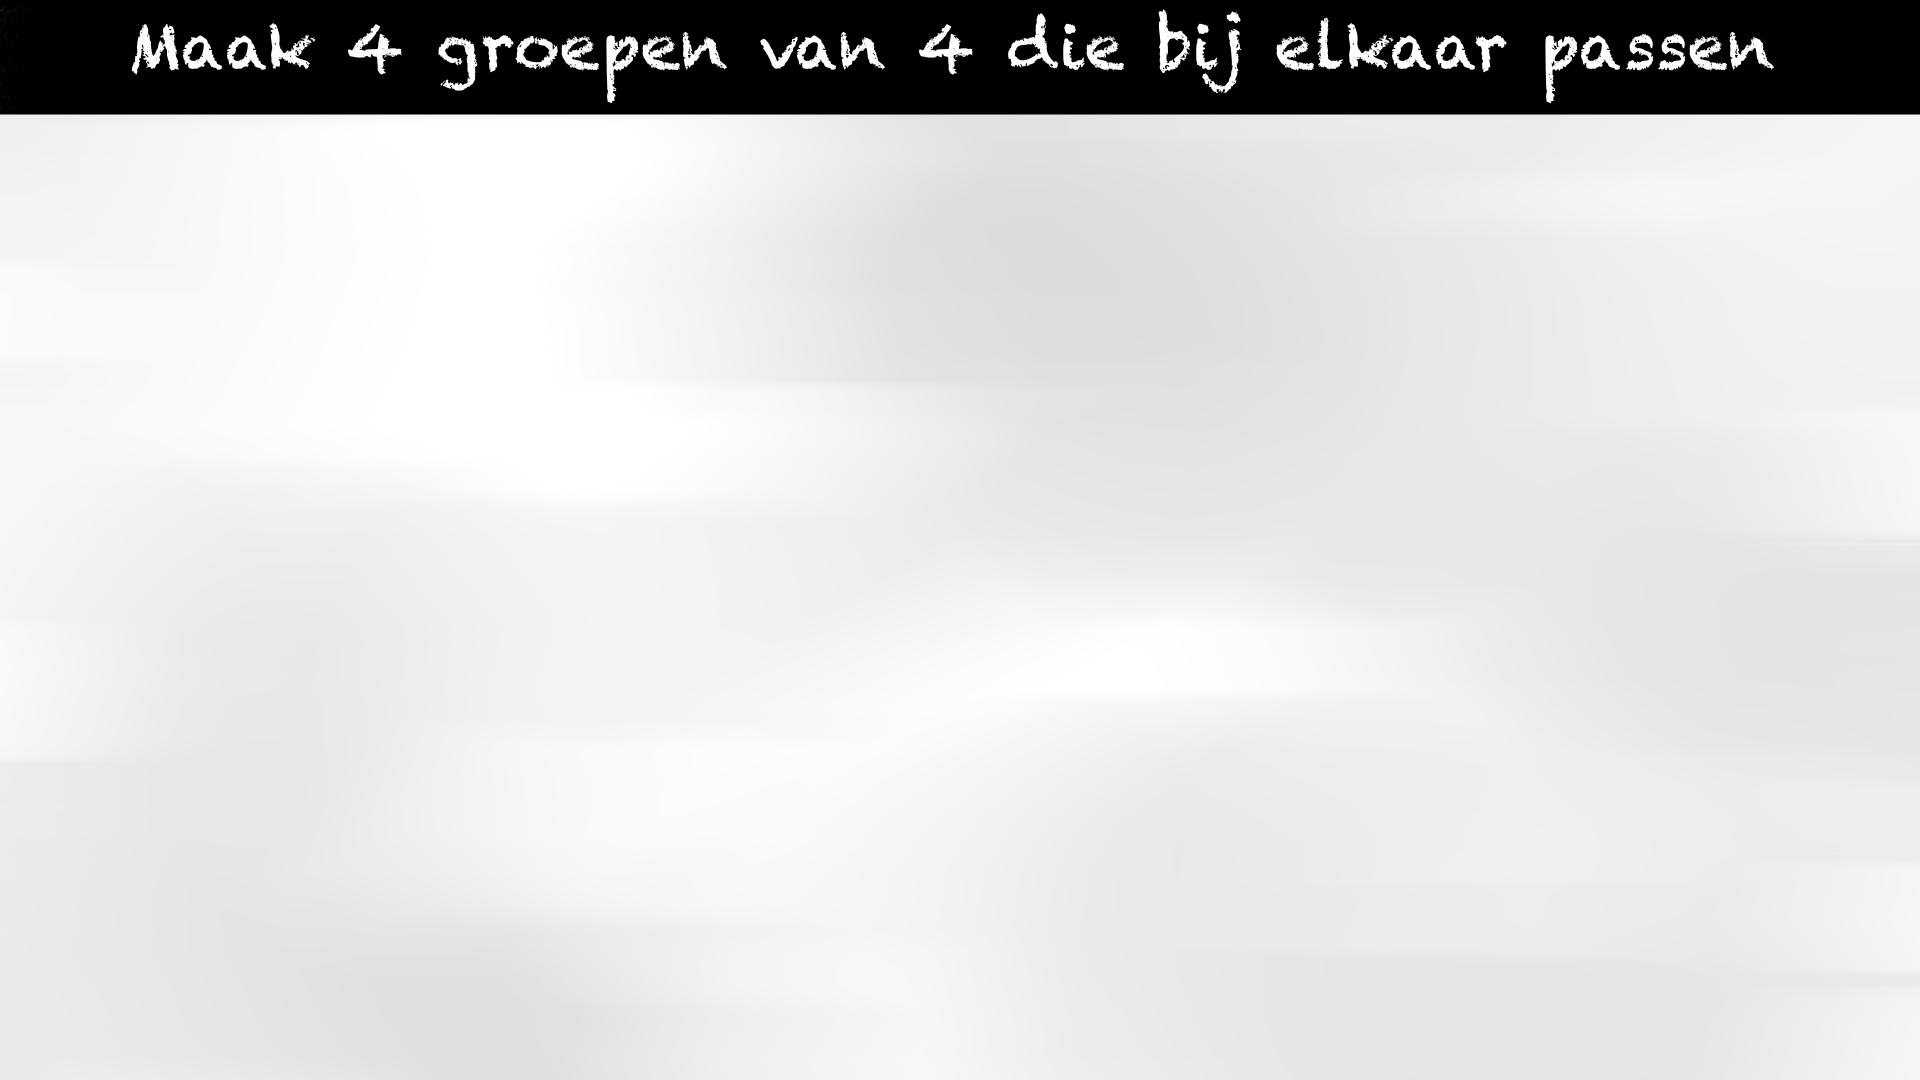
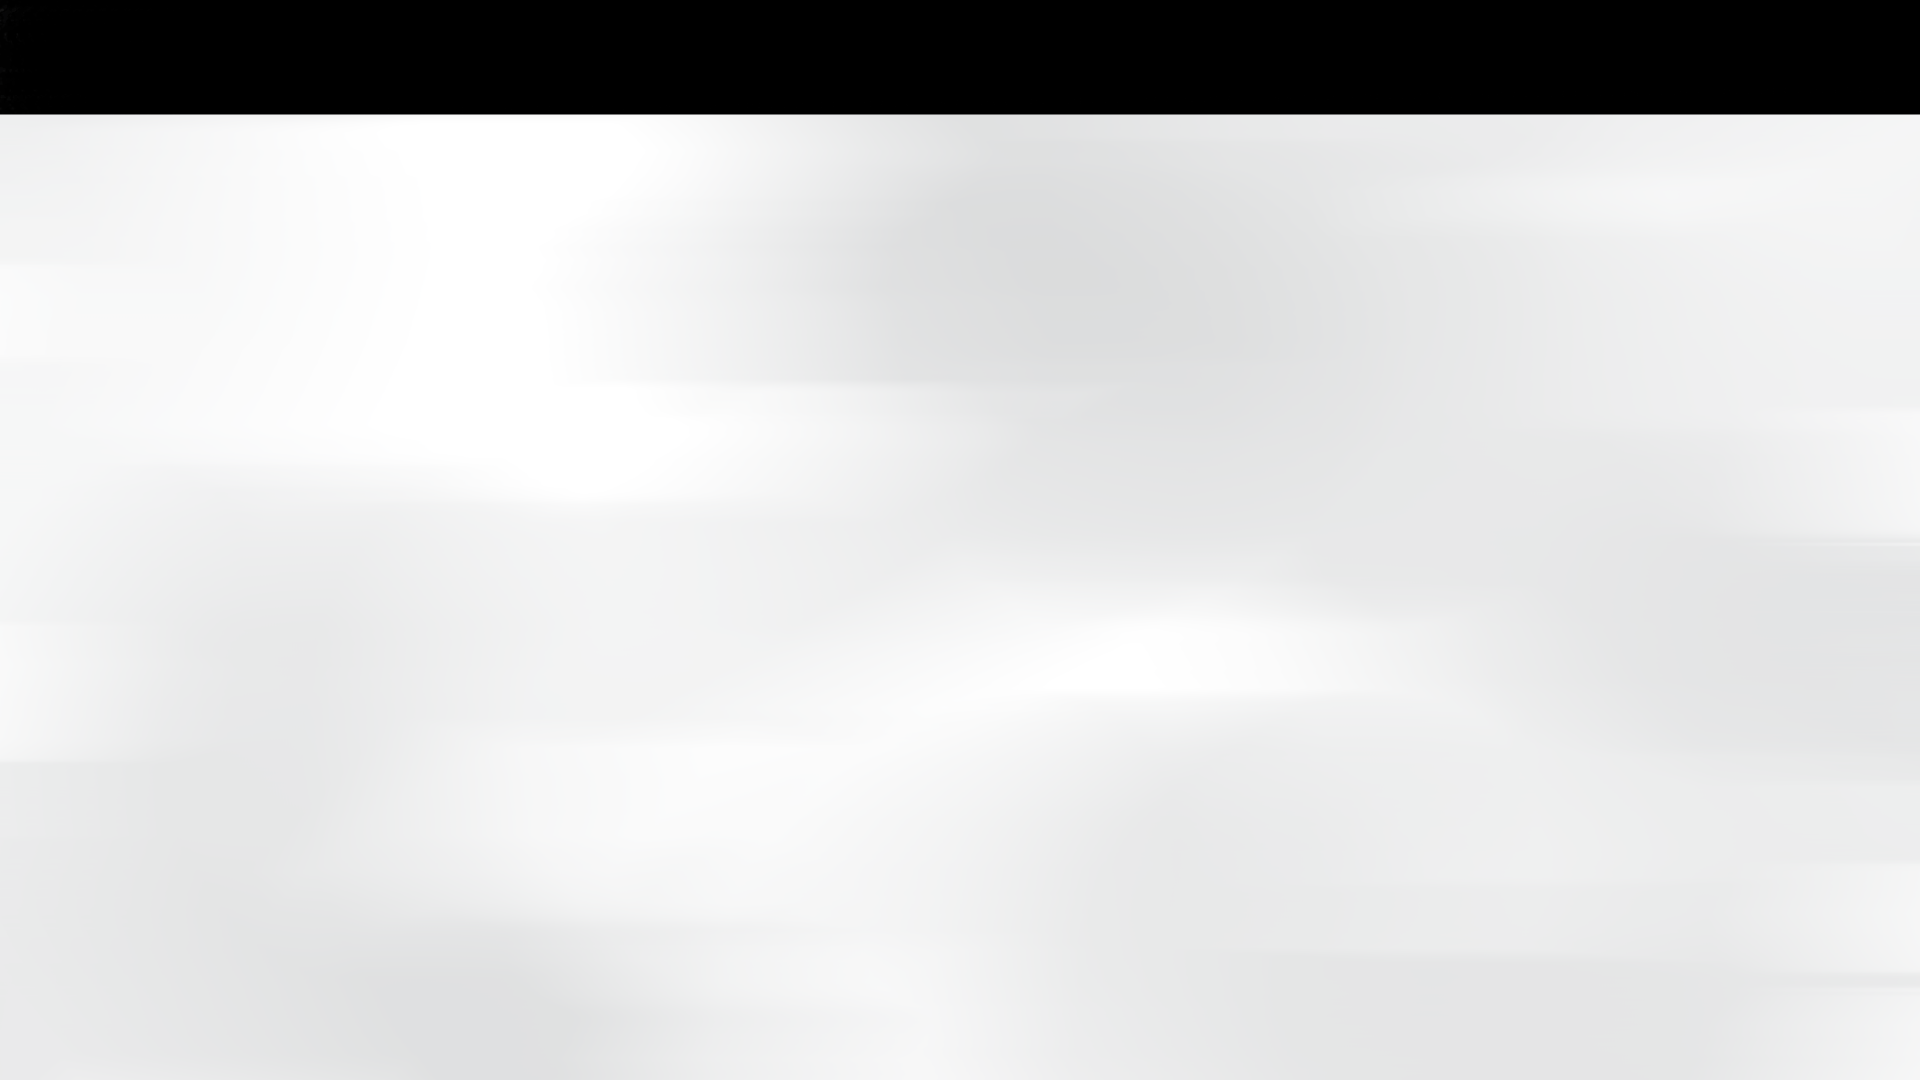
made title of challenges translatable, changes fonts

Changed region(s): [[0.0625, 0.0, 0.9375, 0.0917]]

diff --git a/src/Challenges/Challenge.ts b/src/Challenges/Challenge.ts
@@ -460,7 +460,7 @@ export default abstract class Challenge extends Stage {
     );
 
     const title: string = `${this.challengeScience} Theory (${this.difficultyLevel})`;
-    CanvasRenderer.writeText(LostInTheForest.canvas, title, LostInTheForest.canvas.width * 0.075, LostInTheForest.canvas.height * 0.125, 'start', 'arial', 32, 'black', 'bold');
+    CanvasRenderer.writeText(LostInTheForest.canvas, title, LostInTheForest.canvas.width * 0.075, LostInTheForest.canvas.height * 0.125, 'start', 'Comic Sans MS', 32, 'black', 'bold');
 
     // Render text
     let categoryXPos: number = LostInTheForest.canvas.width * 0.075;
@@ -477,7 +477,7 @@ export default abstract class Challenge extends Stage {
         categoryXPos = LostInTheForest.canvas.width * 0.5;
       }
       // Category text
-      CanvasRenderer.writeText(LostInTheForest.canvas, category.getName(), categoryXPos, categoryYPos, 'start', 'arial', 20, 'black', 'bold');
+      CanvasRenderer.writeText(LostInTheForest.canvas, category.getName(), categoryXPos, categoryYPos, 'start', 'Comic Sans MS', 20, 'black', 'bold');
 
       const elementXPos: number = categoryXPos;
       let elementYPos: number = categoryYPos + LostInTheForest.canvas.height * 0.03;
@@ -493,7 +493,7 @@ export default abstract class Challenge extends Stage {
           elementXPos,
           elementYPos,
           'start',
-          'arial',
+          'Comic Sans MS',
           16,
           'black',
           'bold'
@@ -514,7 +514,7 @@ export default abstract class Challenge extends Stage {
             elementXPos,
             theoryYPos,
             'start',
-            'arial',
+            'Comic Sans MS',
             16,
             'black'
           );
@@ -536,11 +536,12 @@ export default abstract class Challenge extends Stage {
    */
   public override render(): void {
     super.render();
+    CanvasRenderer.writeText(LostInTheForest.canvas, LostInTheForest.locale.t('Maak 4 groepen van 4 die bij elkaar passen'), LostInTheForest.canvas.width * 0.5, LostInTheForest.canvas.height * 0.07, 'center', 'Comic Sans MS', 50, 'white');
     this.backButton.render();
     this.theoryButton.render();
     this.hintButton.render();
     this.animal.render();
-    CanvasRenderer.writeText(LostInTheForest.canvas, LostInTheForest.locale.t('Klik als je het niet snapt!'), LostInTheForest.canvas.width * 0.83, LostInTheForest.canvas.height * 0.64, 'center', 'Arial', 20, 'black');
+    CanvasRenderer.writeText(LostInTheForest.canvas, LostInTheForest.locale.t('Klik als je het niet snapt!'), LostInTheForest.canvas.width * 0.83, LostInTheForest.canvas.height * 0.64, 'center', 'Comic Sans MS', 20, 'black');
 
     const hintCategoryText: string = this.categories.reduce((acc: string, cur: Category) => acc += cur.getName() + ' - ', ' - ');
     if (this.hintIsOpen) {
